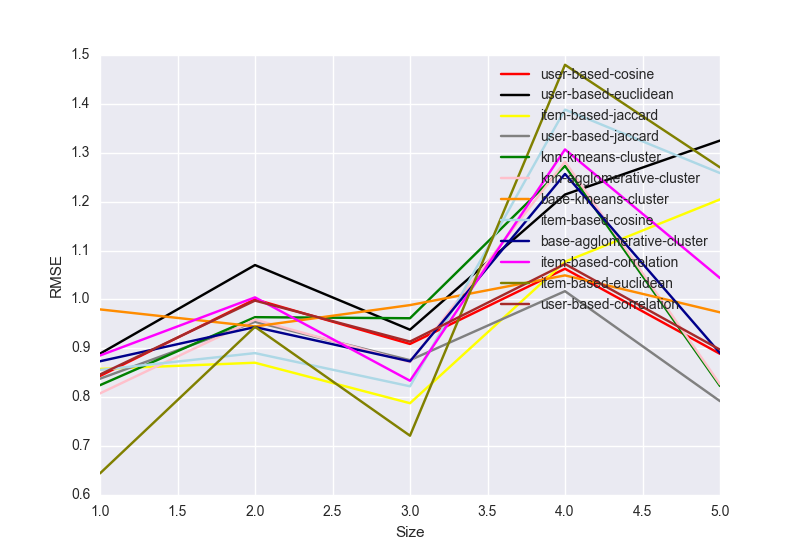
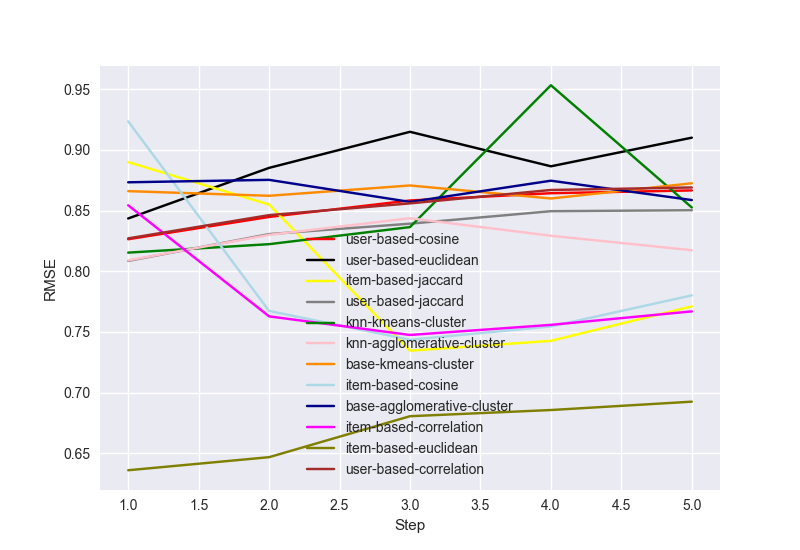
bigger data set results

diff --git a/main.py b/main.py
@@ -4,6 +4,7 @@ import copy
 
 import pandas as pd
 from sklearn.metrics import mean_absolute_error, mean_squared_error
+from datetime import datetime
 
 import user_based
 import item_based
@@ -12,7 +13,7 @@ from helpers import *
 from sort import sort
 
 # number of rows from ratings.dat file which will be processed
-NUMBER_OF_ROWS = 100000
+NUMBER_OF_ROWS = 500000
 
 columns = ['UserID', 'MovieID', 'Rating']
 # read data
@@ -45,6 +46,8 @@ column_step = cols / step
 
 # predicting ratings
 number_of_predictions = 100
+pairs, ratings = get_data_for_testing(user_based_data.iloc[0:row_step, 0:column_step], number_of_predictions)
+
 algorithms = {
     'user-based-euclidean': [],
     'user-based-jaccard': [],
@@ -76,7 +79,6 @@ def perform_analysis(matrix, n):
     user_based_matrix = matrix
     item_based_matrix = user_based_matrix.copy().T
 
-    pairs, ratings = get_data_for_testing(user_based_matrix, number_of_predictions)
     predicted_ratings = copy.deepcopy(algorithms)
     executions = copy.deepcopy(algorithms)
 
@@ -158,12 +160,11 @@ def perform_analysis(matrix, n):
 
     return {
         'step': n,
-        'true_ratings': ratings,
         'predicted_ratings': predicted_ratings,
         'executions': executions
     }
 
-
+print datetime.now().strftime('%Y-%m-%d %H:%M:%S') + '\tStarted'
 for i in range(step):
     # perform analysis related to user number and density
     data = user_based_data.iloc[0:row_step, 0:(i + 1) * column_step]
@@ -177,6 +178,8 @@ for i in range(step):
     data = user_based_data.iloc[0:(i + 1) * row_step, 0:(i + 1) * column_step]
     results['both']['results'].append(perform_analysis(data, n=i))
 
+    print datetime.now().strftime('%Y-%m-%d %H:%M:%S') + '\tFinished step: ' + str(i + 1)
+
 # convert generated results into images
 for key, value in results.iteritems():
     mae = copy.deepcopy(algorithms)
@@ -184,16 +187,14 @@ for key, value in results.iteritems():
     execution = copy.deepcopy(algorithms)
 
     for result in results[key]['results']:
-        true_ratings = result['true_ratings']
-
         for k, val in result['predicted_ratings'].iteritems():
-            mae[k].append(mean_absolute_error(true_ratings, val))
-            rmse[k].append(sqrt(mean_squared_error(true_ratings, val)))
+            mae[k].append(mean_absolute_error(ratings, val))
+            rmse[k].append(sqrt(mean_squared_error(ratings, val)))
             execution[k].append(sum(val) / len(val))
 
     # save MAE results
-    save_graphic_results('./images/' + key + '_mae.png', mae, 'Size', 'MAE', step)
+    save_graphic_results('./images/' + key + '_mae.png', mae, 'Step', 'MAE', step)
     # save RMSE results
-    save_graphic_results('./images/' + key + '_rmse.png', rmse, 'Size', 'RMSE', step)
+    save_graphic_results('./images/' + key + '_rmse.png', rmse, 'Step', 'RMSE', step)
     # save execution results
-    save_graphic_results('./images/' + key + '_execution.png', execution, 'Size', 'Average execution time', step)
+    save_graphic_results('./images/' + key + '_execution.png', execution, 'Step', 'Average execution time', step)
